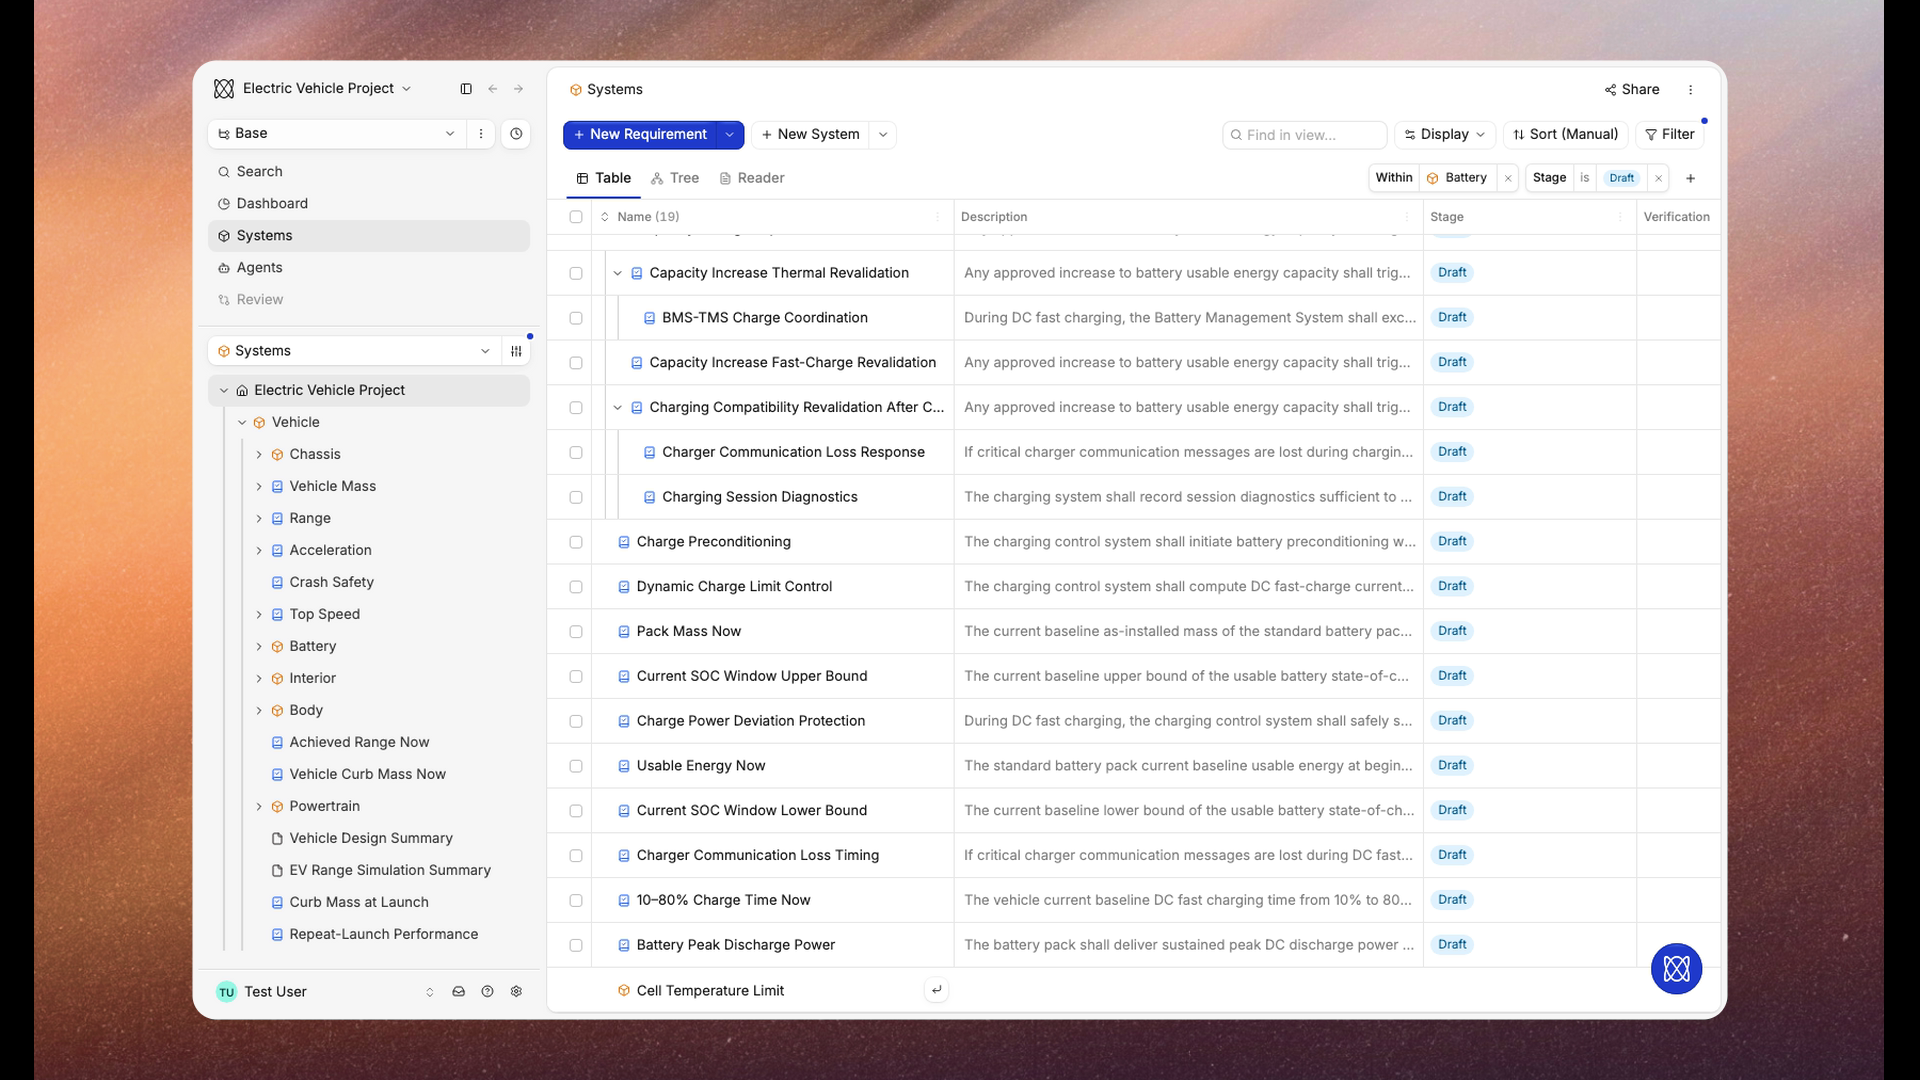
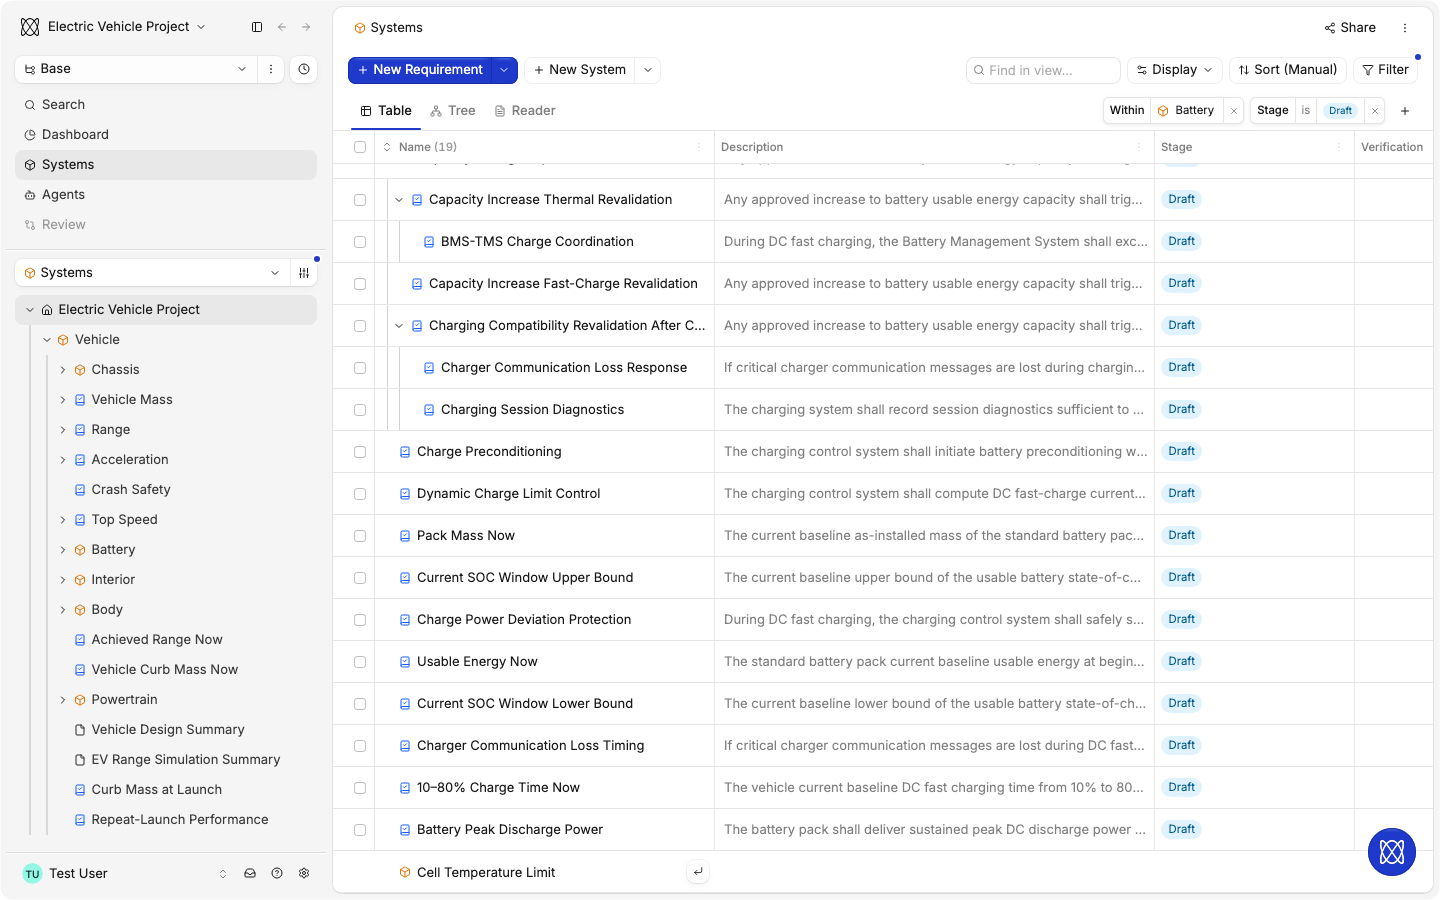
docs(guides): show Get started screenshots as plain app images
Re-renders the eight Get started screenshots without the brand background:
the app on its own with rounded corners and a transparent outside, as whole
views or tight 2x crops, displayed at true size.

diff --git a/.claude/skills/flow-product-docs/screenshots/render.py b/.claude/skills/flow-product-docs/screenshots/render.py
@@ -11,12 +11,13 @@ Follows branch-demo's flow-brand product-media rules:
 - component: one UI element (a dialog, menu, or panel captured on its own) centred
   on the 1920 x 1120 background, keeping its own corner radius. This is a deliberate
   exception to flow-brand's "no floating cards" rule, requested for Linear-style docs.
-- crop: a tight region of the UI on its own, rounded corners, transparent outside.
+- crop: the app (whole viewport, or a region given as CSS-px `x,y,w,h`) on its own,
+  rounded corners, transparent outside. The default for docs screenshots.
 
     python3 render.py <background.png> <raw.png> <out.png> full
     python3 render.py <background.png> <raw.png> <out.png> closeup <width>
     python3 render.py <background.png> <raw.png> <out.png> component
-    python3 render.py <background.png> <raw.png> <out.png> crop
+    python3 render.py <background.png> <raw.png> <out.png> crop [x,y,w,h]
 
 Element captures (component, crop) come from a 2x capture with a sibling
 `<raw>.json` holding the element's CSS corner `radius` and the capture `dsf`.
@@ -45,13 +46,19 @@ def probe(path):
     return tuple(int(v) for v in out.strip().split(","))
 
 
-def element(background, raw, out, mode):
+def element(background, raw, out, mode, clip=None):
     meta_path = Path(raw).with_suffix(".json")
     meta = json.loads(meta_path.read_text()) if meta_path.exists() else {"radius": 0, "dsf": 2}
     w, h = probe(raw)
     if mode == "crop":
-        radius = 24
-        graph = (f"[0:v]format=rgba,setsar=1[ui];" + mask(w, h, radius)
+        # dsf from the sidecar, else from the viewport width (1440 CSS px wide).
+        dsf = meta.get("dsf") if meta_path.exists() else (2 if w >= 2880 else 1)
+        crop = ""
+        if clip:  # x,y,w,h in CSS px of the captured viewport
+            cx, cy, cw, ch = (round(float(v) * dsf) for v in clip.split(","))
+            crop, w, h = f"crop={cw}:{ch}:{cx}:{cy},", cw, ch
+        radius = 12 * dsf
+        graph = (f"[0:v]{crop}format=rgba,setsar=1[ui];" + mask(w, h, radius)
                  + "[ui][mask]alphamerge[out]")
         subprocess.run(["ffmpeg", "-nostdin", "-v", "error", "-y", "-i", raw,
                         "-filter_complex", graph, "-map", "[out]", "-frames:v", "1", out], check=True)
@@ -74,7 +81,7 @@ def element(background, raw, out, mode):
 
 def render(background, raw, out, mode, width=None):
     if mode in ("component", "crop"):
-        return element(background, raw, out, mode)
+        return element(background, raw, out, mode, width)
     if mode == "full":
         w, h, x, y, canvas, radius = 1536, 960, 192, 60, (1920, 1080), 24
         bg = "[0:v]scale=1920:1080:force_original_aspect_ratio=decrease,pad=1920:1080:(ow-iw)/2:(oh-ih)/2,setsar=1[bg];"

diff --git a/.claude/skills/flow-product-docs/SKILL.md b/.claude/skills/flow-product-docs/SKILL.md
@@ -99,11 +99,12 @@ On top of `AGENTS.md`'s content boundaries:
 - Screenshots are real captures from a branch-demo preview's Electric Vehicle
   project (recipes in branch-demo `docs/media/`), framed with
   `screenshots/render.py` (capture with `screenshots/capture.js`). Pick the
-  frame by what the reader needs: `full` for the whole screen and orientation;
-  `closeup` for one area in context; `component` for a single dialog, menu, or
-  panel shown on its own on the background (Linear-style); `crop` for a tight
-  slice of the UI with no background. Capture all but `full` at 2x, and capture
-  `component` and `crop` by element (`shotEl`) so they keep the UI's own shape.
+  frame by what the reader needs. The default is `crop`: the app on its own, no
+  background, rounded corners, transparent outside, either the whole viewport or
+  a region (`x,y,w,h` in CSS px) or one element captured with `shotEl`. Capture
+  regions and elements at 2x and set the `<img>` `width` to the CSS width so they
+  display at true size. `full`, `closeup`, and `component` add the brand
+  background and are for marketing-style pages.
   Keep real people's names out of frame; the seeded owners are colleagues.
 - Diagrams are drawn with the `flow-illustration` skill and placed with the
   `Illustration` snippet; see `references/diagrams.md`. Placeholders are for screenshots.
